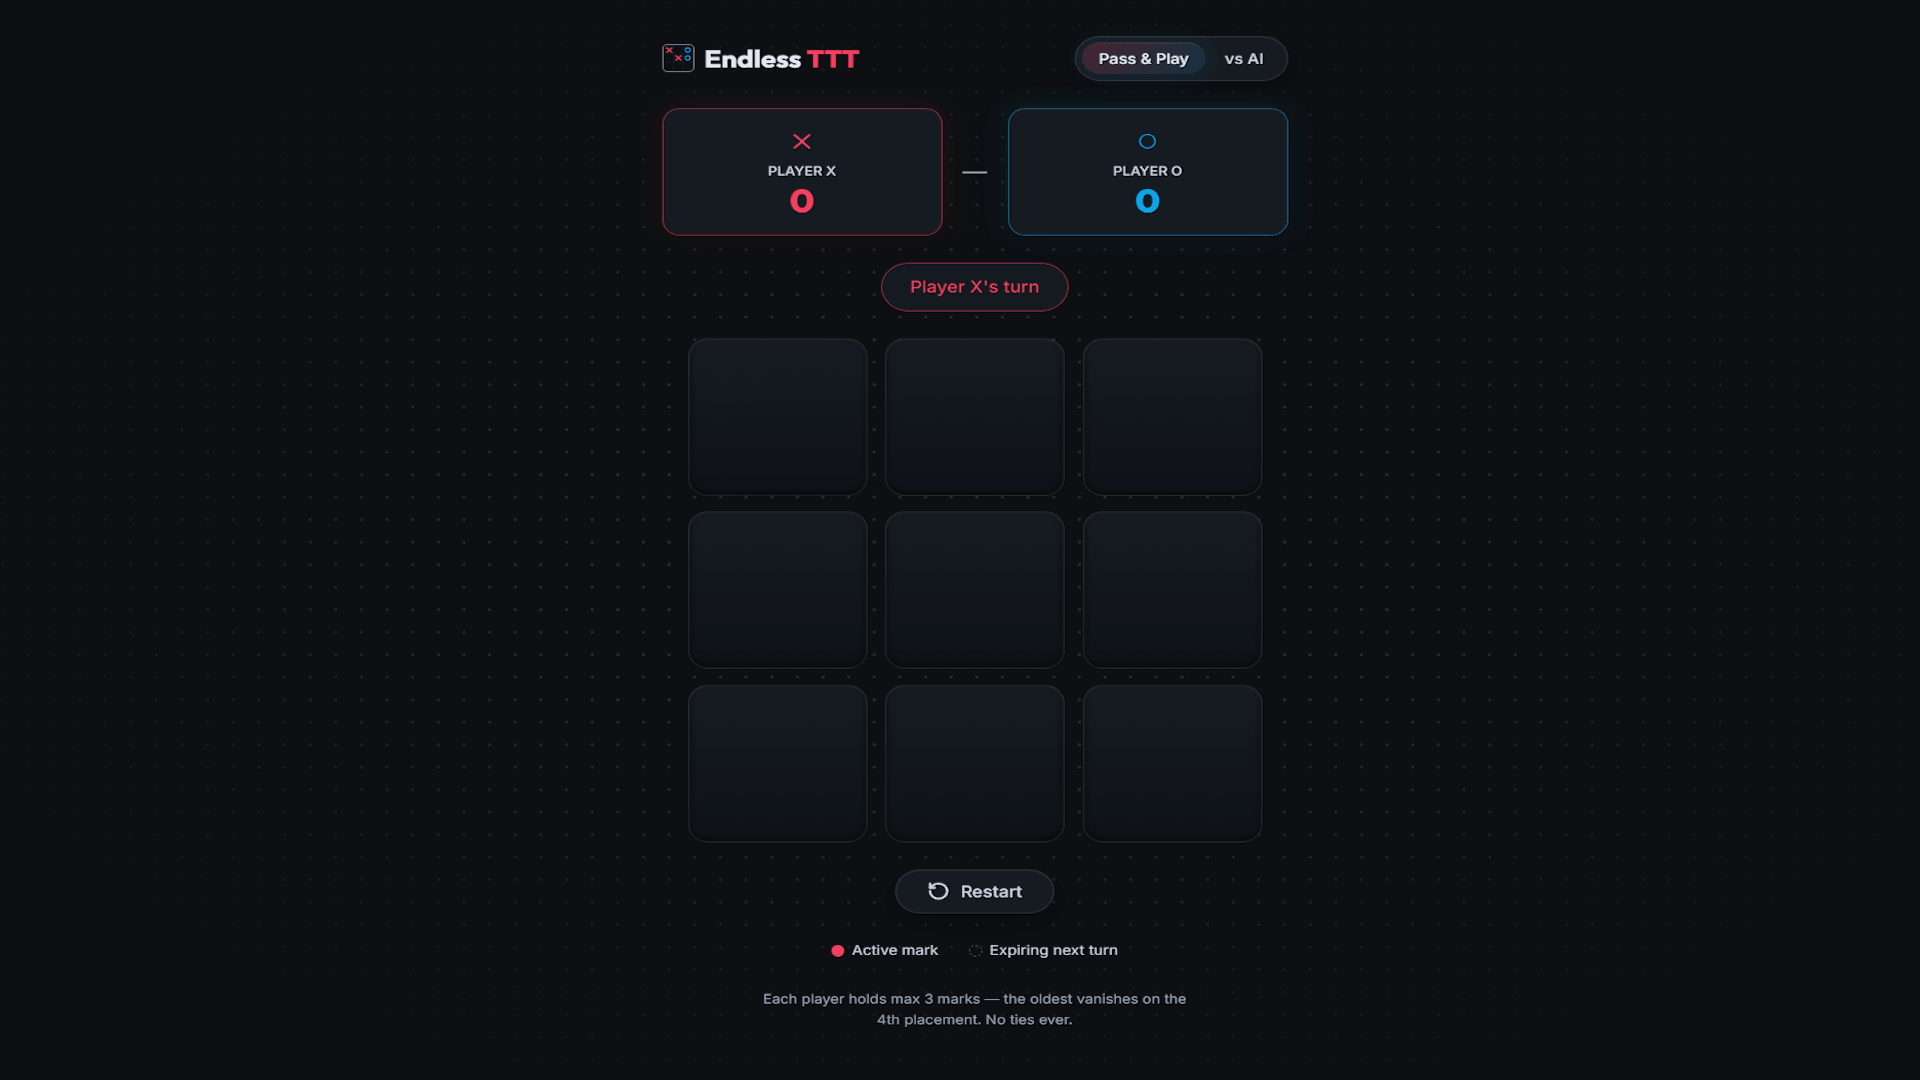
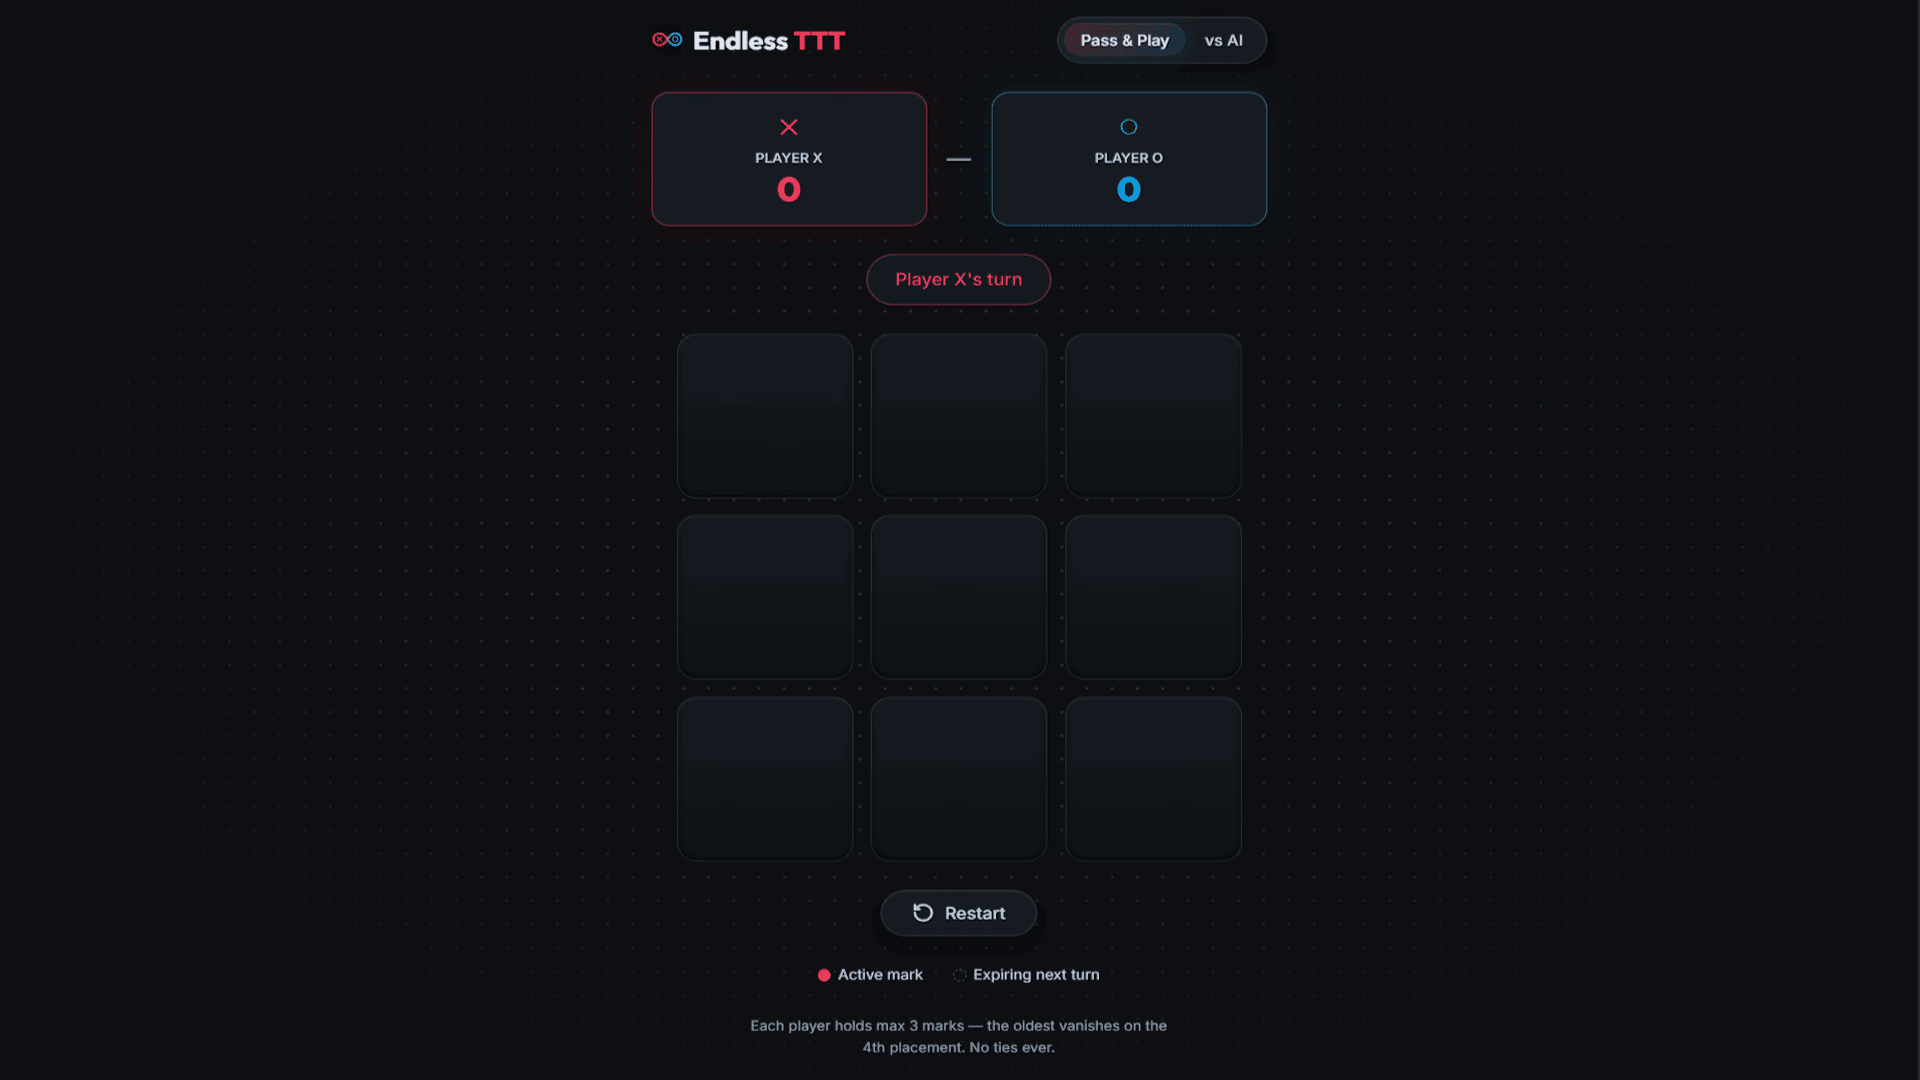
style(assets): update mobile and desktop preview screenshots

diff --git a/public/sw.js b/public/sw.js
@@ -1,6 +1,6 @@
 // Endless Tic-Tac-Toe — Stale-While-Revalidate PWA Service Worker
 
-const CACHE_NAME = 'endless-ttt-v2';
+const CACHE_NAME = 'endless-ttt-v2.0.1';
 const CACHE_PREFIX = 'endless-ttt-';
 const PRECACHE_ASSETS = [
   './',
